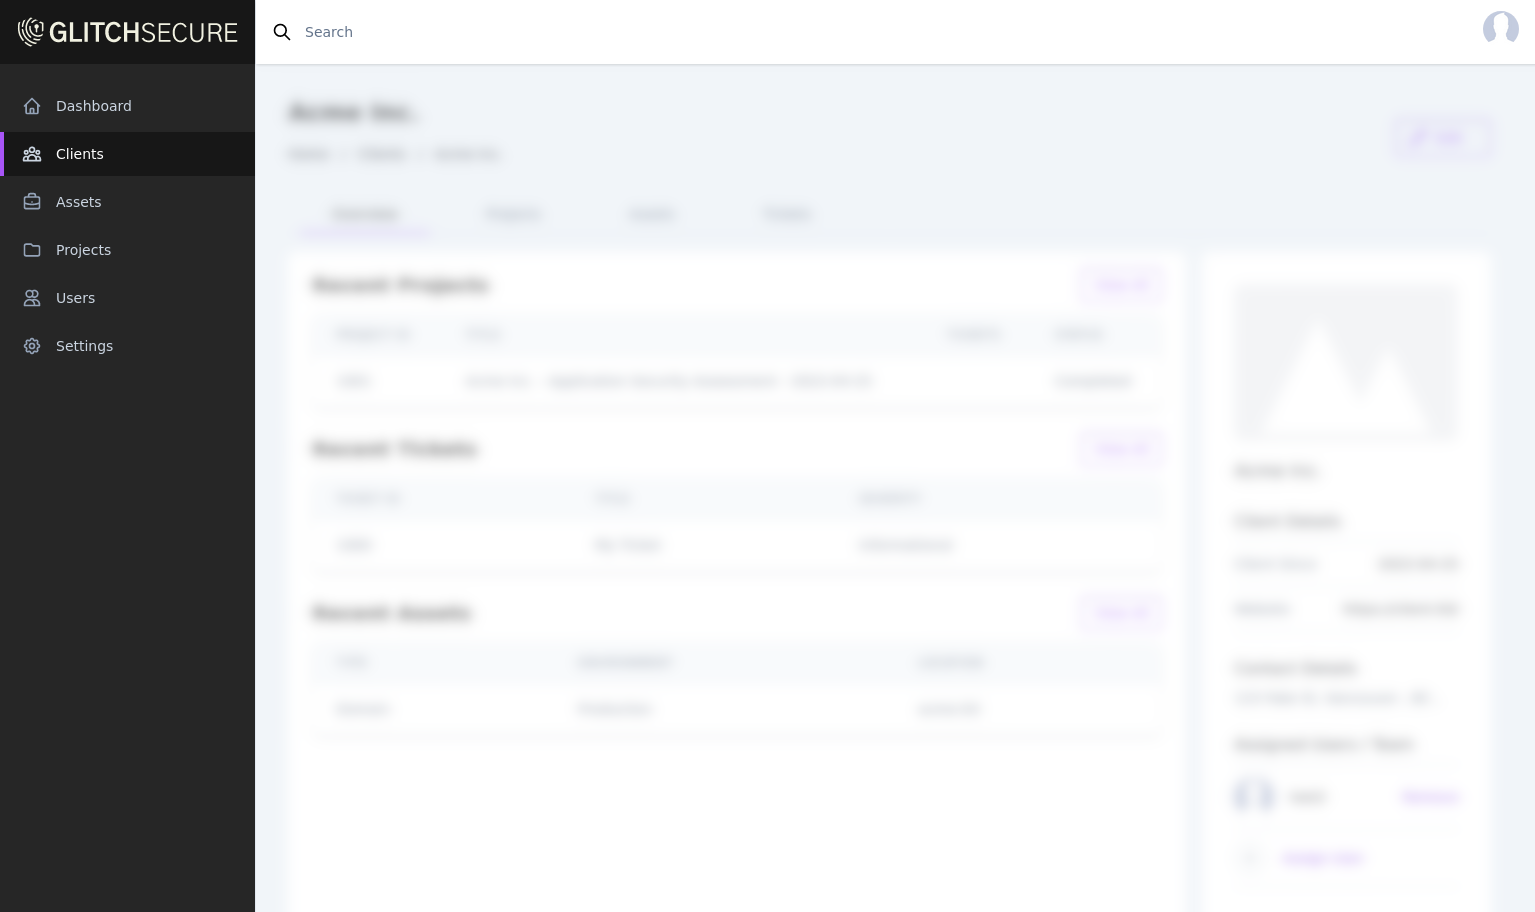
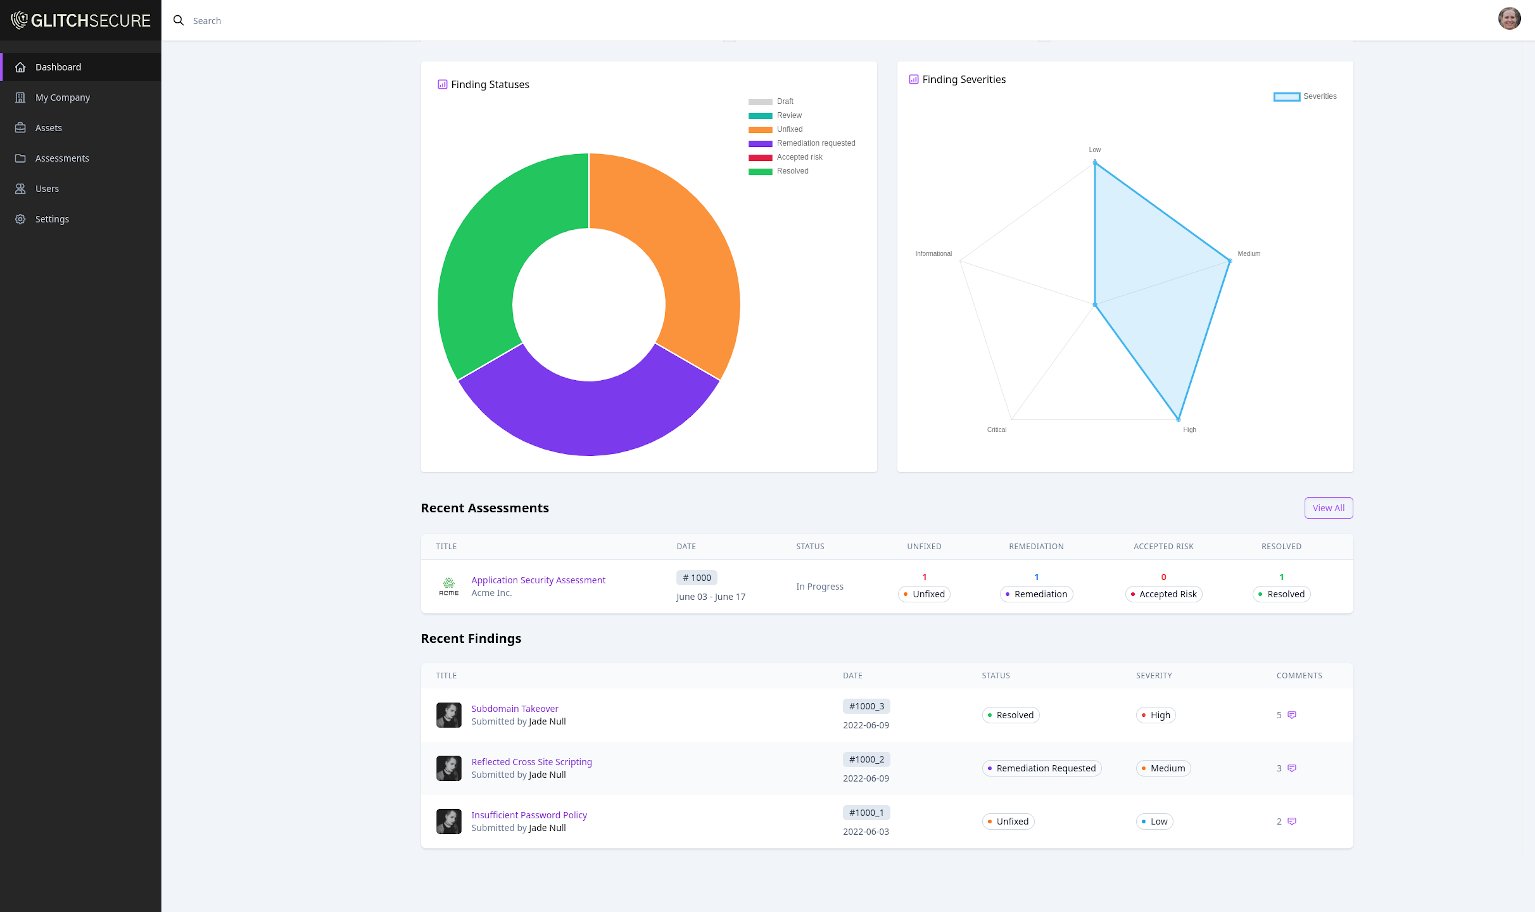
Update home page links, images, and text

diff --git a/_includes/home/platform-feature.html b/_includes/home/platform-feature.html
@@ -11,40 +11,16 @@
                <h2 class="text-3xl font-extrabold tracking-tight text-gray-200">{{ page.platform-feature-title1 }}</h2>
                <p class="mt-4 text-lg text-gray-300">{{ page.platform-feature-subtitle1 }}</p>
                <div class="mt-6">
-                 <a href="#" class="
-                 inline-flex
-                 text-base
-                 font-medium
-                 text-black
-                 bg-neutral-100
-                 rounded-lg
-                 hover:bg-opacity-90
-                 py-3
-                 px-6
-                 transition
-                 "> {{ page.platform-feature-button1}} </a>
+                 <div class="mt-8 border-t border-gray-200 pt-6">
+
+                 </div>
                </div>
              </div>
-           </div>
-           <div class="mt-8 border-t border-gray-200 pt-6">
-             <blockquote>
-               <div>
-                 <p class="text-base text-gray-300">{{ page.platform-feature-quote }}</p>
-               </div>
-               <footer class="mt-3">
-                 <div class="flex items-center space-x-3">
-                   <div class="flex-shrink-0">
-                     <img class="h-6 w-6 rounded-full" src="{{ page.platform-feature-quote-pic }}" alt="">
-                   </div>
-                   <div class="text-base font-bold text-gray-400">{{ page.platform-feature-quote-who }}</div>
-                 </div>
-               </footer>
-             </blockquote>
            </div>
          </div>
          <div class="mt-12 sm:mt-16 lg:mt-0">
            <div class="pl-4 -mr-48 sm:pl-6 md:-mr-16 lg:px-0 lg:m-0 lg:relative lg:h-full">
-             <img class="w-full rounded-xl shadow-xl ring-1 ring-black ring-opacity-5 lg:absolute lg:left-0 lg:h-full lg:w-auto lg:max-w-none" src="/assets/img/home/platform-preview1.png" alt="Inbox user interface">
+             <img class="w-full rounded-xl ring-1 ring-black ring-opacity-5 lg:absolute lg:left-0 lg:h-full lg:w-auto lg:max-w-none" src="/assets/img/home/platform-preview1.svg" alt="Inbox user interface">
            </div>
          </div>
        </div>
@@ -57,25 +33,28 @@
                <h2 class="text-3xl font-extrabold tracking-tight text-gray-200">{{ page.platform-feature-title2 }}</h2>
                <p class="mt-4 text-lg text-gray-300">{{ page.platform-feature-subtitle2 }}</p>
                <div class="mt-6">
-                 <a href="#" class="
-                 inline-flex
-                 text-base
-                 font-medium
-                 text-black
-                 bg-neutral-100
-                 rounded-lg
-                 hover:bg-opacity-90
-                 py-3
-                 px-6
-                 transition
-                 "> {{ page.platform-feature-button2 }} </a>
+                 <div class="mt-8 border-t border-gray-200 pt-6">
+                   <blockquote>
+                     <div>
+                       <p class="text-base text-gray-300">{{ page.platform-feature-quote }}</p>
+                     </div>
+                     <footer class="mt-3">
+                       <div class="flex items-center space-x-3">
+                         <div class="flex-shrink-0">
+                           <img class="h-6 w-6 rounded-full" src="{{ page.platform-feature-quote-pic }}" alt="">
+                         </div>
+                         <div class="text-base font-bold text-gray-400">{{ page.platform-feature-quote-who }}</div>
+                       </div>
+                     </footer>
+                   </blockquote>
+                 </div>
                </div>
              </div>
            </div>
          </div>
          <div class="mt-12 sm:mt-16 lg:mt-0 lg:col-start-1">
            <div class="pr-4 -ml-48 sm:pr-6 md:-ml-16 lg:px-0 lg:m-0 lg:relative lg:h-full">
-             <img class="w-full rounded-xl shadow-xl ring-1 ring-black ring-opacity-5 lg:absolute lg:right-0 lg:h-full lg:w-auto lg:max-w-none" src="/assets/img/home/platform-preview2.png" alt="Customer profile user interface">
+             <img class="w-full rounded-xl ring-1 ring-black ring-opacity-5 lg:absolute lg:right-0 lg:h-full lg:w-auto lg:max-w-none" src="/assets/img/home/platform-preview2.svg" alt="Customer profile user interface">
            </div>
          </div>
        </div>

diff --git a/_includes/home/client-list.html b/_includes/home/client-list.html
@@ -1,22 +1,36 @@
 <figure class="w-full h-32 -mt-32 bg-medium-purple" style="clip-path: polygon(0 99%, 100% 40%, 100% 100%, 0% 100%);">
 </figure>
 <div class="relative bg-medium-purple pt-16">
-  <div class="max-w-7xl mx-auto px-4 sm:px-6 pb-24 lg:px-8 text-center">
+  <div class="max-w-7xl mx-auto px-4 sm:px-6 lg:px-8 text-center">
     <p class="text-xl inline-block text-base font-semibold uppercase text-gray-200 tracking-wider border-b-2 border-indigo-500">{{ page.client-list-title}}</p>
     <span class="border-b-2 border-indigo-500 max-w-md mx-auto"> </span>
-    <div class="mt-6 grid grid-cols-2 gap-0.5 md:grid-cols-4 lg:mt-8">
-      <div class="col-span-1 flex justify-center py-8 px-8 bg-medium-purple">
-        <img class="max-h-12 opacity-75 blur" src="{{ site.url }}/assets/img/clients/twilio.png" alt="TextNow">
+    <div class="mt-6 grid grid-cols-2 gap-0.5 md:grid-cols-4 lg:grid-cols-8 lg:mt-8">
+      <div class="col-span-1 flex justify-center p-8">
+        <img class="max-h-12 opacity-75" src="{{ site.url }}/assets/img/clients/adobe.png" alt="Adobe">
       </div>
-      <div class="col-span-1 flex justify-center py-8 px-8 bg-medium-purple">
-        <img class="max-h-12 opacity-75 blur" src="{{ site.url }}/assets/img/clients/dropbox.png" alt="Dropbox">
+      <div class="col-span-1 flex justify-center p-8">
+        <img class="max-h-12 opacity-75" src="{{ site.url }}/assets/img/clients/compass.png" alt="Compass">
       </div>
-      <div class="col-span-1 flex justify-center py-8 px-8 bg-medium-purple">
-        <img class="max-h-12 opacity-75 blur" src="{{ site.url }}/assets/img/clients/zoom.png" alt="Zoom">
+      <div class="col-span-1 flex justify-center p-8">
+        <img class="max-h-12 opacity-75" src="{{ site.url }}/assets/img/clients/dropbox.png" alt="Dropbox">
       </div>
-      <div class="col-span-1 flex justify-center py-8 px-8 bg-medium-purple">
-        <img class="max-h-12 opacity-75 blur" src="{{ site.url }}/assets/img/clients/adobe.png" alt="Adobe">
+      <div class="col-span-1 flex justify-center p-8">
+        <img class="max-h-12 opacity-75" src="{{ site.url }}/assets/img/clients/shaw.png" alt="Shaw">
       </div>
+      <div class="col-span-1 flex justify-center p-8">
+        <img class="max-h-12 opacity-75" src="{{ site.url }}/assets/img/clients/textnow.png" alt="TextNow">
+      </div>
+      <div class="col-span-1 flex justify-center p-8">
+        <img class="max-h-12 opacity-75" src="{{ site.url }}/assets/img/clients/titan.png" alt="Titanvest">
+      </div>
+      <div class="col-span-1 flex justify-center p-8">
+        <img class="max-h-12 opacity-75" src="{{ site.url }}/assets/img/clients/twilio.png" alt="Twilio">
+      </div>
+      <div class="col-span-1 flex justify-center p-8">
+        <img class="max-h-12 opacity-75" src="{{ site.url }}/assets/img/clients/zoom.png" alt="Zoom">
+      </div>
+
+
     </div>
   </div>
 </div>

diff --git a/_includes/home/cta.html b/_includes/home/cta.html
@@ -1,22 +1,24 @@
 <figure class="w-full h-32 -mt-32 bg-medium-purple" style="clip-path: polygon(0 99%, 100% 40%, 100% 100%, 0% 100%);">
 </figure>
-<div class="relative bg-medium-purple">
+<div class="relative bg-medium-purple" id="demo">
   <div class="max-w-7xl mx-auto py-24 px-4 sm:px-6 lg:py-32 lg:px-8 lg:flex lg:items-center">
     <div class="lg:w-0 lg:flex-1">
       <h2 class="text-3xl font-extrabold text-gray-200 sm:text-4xl">{{ page.cta-title }}</h2>
       <p class="mt-3 max-w-3xl text-lg text-gray-300">{{ page.cta-subtitle }}</p>
     </div>
     <div class="mt-8 lg:mt-0 lg:ml-8">
-      <form class="sm:flex">
-        <label for="email-address" class="sr-only">Email address</label>
-        <input id="email-address" name="email-address" type="email" autocomplete="email" required class="w-full px-5 py-3 border border-gray-300 shadow-sm placeholder-gray-400 focus:ring-1 focus:ring-indigo-500 focus:border-indigo-500 sm:max-w-xs rounded-md" placeholder="Enter your email">
+      <form
+      action="https://cal.com/glitchsecure/jade/?email="
+      class="sm:flex">
+        <label for="email" class="sr-only">Email address</label>
+        <input id="email" name="email" type="email" autocomplete="email" required class="w-full px-5 py-3 border border-gray-300 shadow-sm placeholder-gray-400 focus:ring-1 focus:ring-indigo-500 focus:border-indigo-500 sm:max-w-xs rounded-md" placeholder="Enter your email">
         <div class="mt-3 rounded-md shadow sm:mt-0 sm:ml-3 sm:flex-shrink-0">
           <button type="submit" class="w-full flex items-center justify-center py-3 px-5 border border-transparent text-base font-medium rounded-md text-black bg-neutral-100 hover:bg-neutral-200 focus:outline-none focus:ring-2 focus:ring-offset-2 focus:ring-indigo-500">Schedule</button>
         </div>
       </form>
       <p class="mt-3 text-sm text-gray-500">
         We care about the protection of your data. Read our
-        <a href="#" class="font-medium underline"> Privacy Policy. </a>
+        <a href="/legal/privacy" class="font-medium underline"> Privacy Policy. </a>
       </p>
     </div>
   </div>

diff --git a/_includes/home/hero.html b/_includes/home/hero.html
@@ -55,7 +55,7 @@
             {{ page.hero-subtitle }}
           </p>
           <div class="md:flex flex-wrap mb-7">
-            <a href="#"
+            <a href="{{ page.hero-button-link }}"
                class="
                inline-flex
                text-base
@@ -74,7 +74,7 @@
             {{ page.hero-button }}
             </a>
 
-            <a href="#"
+            <a href="{{ page.hero-button2-link }}"
                class="
                hidden
                sm:inline-flex
@@ -100,11 +100,11 @@
         <div class="text-right mx-auto">
           <div class="relative inline-block z-10 mt-16 lg:mt-0 animate-fadeIn">
             <img
-              src="{{ site.url }}/assets/img/home/hero-preview.png"
+              src="{{ site.url }}/assets/img/home/hero-preview.svg"
               alt="hero"
-              class="max-w-full mx-auto self-start rounded-lg drop-shadow-2xl"
+              class="max-w-full mx-auto self-start rounded-lg"
             />
-            <div
+            <!--<div
               class="
                 absolute
                 inset-0
@@ -1283,7 +1283,7 @@
                   fill="#8B5CF6"
                 />
               </svg>
-            </span>
+            </span> -->
           </div>
         </div>
       </div>

diff --git a/_includes/home/features.html b/_includes/home/features.html
@@ -1,5 +1,5 @@
 <!-- ====== Services Section Start -->
-<section class="relative pb-12 lg:pb-24 bg-medium-purple">
+<section class="relative pt-16 pb-12 lg:pb-24 bg-medium-purple">
    <div class="container">
       <div class="flex flex-wrap -mx-4">
          <div class="w-full px-4">
@@ -7,7 +7,7 @@
                <span class="font-semibold text-lg text-gray-200 mb-2 block">
                {{ page.features-title-small }}
                </span>
-               <h2
+               <h2 id="features"
                   class="
                   font-bold
                   text-3xl
@@ -67,7 +67,7 @@
                <h4 class="text-lg text-gray-200 font-semibold mb-4 uppercase">
                   {{ item.title }}
                </h4>
-               <p class="text-base text-gray-300 leading-relaxed h-32">
+               <p class="text-base text-gray-300 leading-relaxed h-32 text-left">
                   {{ item.subtitle}}
                </p>
                <span

diff --git a/index.md b/index.md
@@ -5,12 +5,14 @@ hero-text-1: "Coming Soon"
 hero-title: "Real-time Security Assessments & Penetration Testing"
 hero-title-2: "Delivered by expert researchers"
 hero-title-3: "Enhanced by automation & collaboration"
-hero-subtitle: "Assess your security posture instantly and collaborate with our expert security researchers to find and remediate vulnerabilities in your product."
+hero-subtitle: "Assess your security posture instantly and collaborate with our expert security researchers to find and remediate vulnerabilities in your product and networks."
 hero-button: "Get started"
+hero-button-link: "/#demo"
 hero-button2: "Book a demo"
+hero-button2-link: "https://cal.com/glitchsecure/jade"
 
 # client list
-client-list-title: "Companies we've helped secure"
+client-list-title: "Companies our researchers have helped secure"
 
 # Stats
 stats-title: "Next generation security assessments"
@@ -24,13 +26,13 @@ features-subtitle: "We use a hybrid approach that combines manual penetration te
 
 # Platform Feature
 platform-feature-title1: "Get actionable results. Instantly."
-platform-feature-subtitle1: "Semper curabitur ullamcorper posuere nunc sed. Ornare iaculis bibendum malesuada faucibus lacinia porttitor. Pulvinar laoreet sagittis viverra duis. In venenatis sem arcu pretium pharetra at. Lectus viverra dui tellus ornare pharetra."
+platform-feature-subtitle1: "No more waiting for outdated PDF reports and spreadsheets. We report security vulnerabilities to you instantly using our real-time dashboard. View technical details, triage reports, schedule remediation testing, and collaborate with our security team using our platform."
 platform-feature-button1: "Get Started"
 platform-feature-quote: "&ldquo;Ethically minded security vulnerability sleuth with high attention to detail, professionalism and a creative flair for seeing angles many miss.&rdquo;"
-platform-feature-quote-who: "Chris Bunk, Chief Technology Officer"
-platform-feature-quote-pic: "https://s3.amazonaws.com/keybase_processed_uploads/b3fe856497ff34989e8ae01ab2bf8e05_360_360.jpg"
+platform-feature-quote-who: "SVP of Technology at a Financial Services Provider"
+platform-feature-quote-pic: "/assets/img/default-avatar.jpg"
 platform-feature-title2: "Expert advice in real-time."
-platform-feature-subtitle2: "Semper curabitur ullamcorper posuere nunc sed. Ornare iaculis bibendum malesuada faucibus lacinia porttitor. Pulvinar laoreet sagittis viverra duis. In venenatis sem arcu pretium pharetra at. Lectus viverra dui tellus ornare pharetra."
+platform-feature-subtitle2: "Our dedicated experts are available throughout the assessment period to provide advice and help you along the way."
 platform-feature-button2: "Get Started"
 
 # Call-to-action
